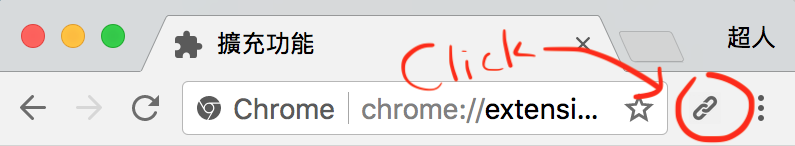
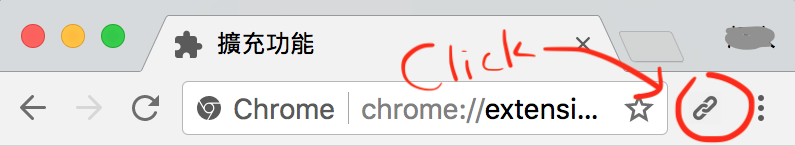
覆蓋圖片上的名字，跟更新圖片大小

Changed region(s): [[0.9057, 0.1644, 0.9962, 0.3562]]

diff --git a/README.md b/README.md
@@ -1,6 +1,6 @@
 # UrlShortener
 
-![alt text](https://github.com/wowissu/UrlShortener/blob/master/images/chrome_display.png)
+![alt text](https://github.com/wowissu/UrlShortener/blob/master/images/chrome_display.png | width=300)
 
 
 Click it for quick copy and short url.
